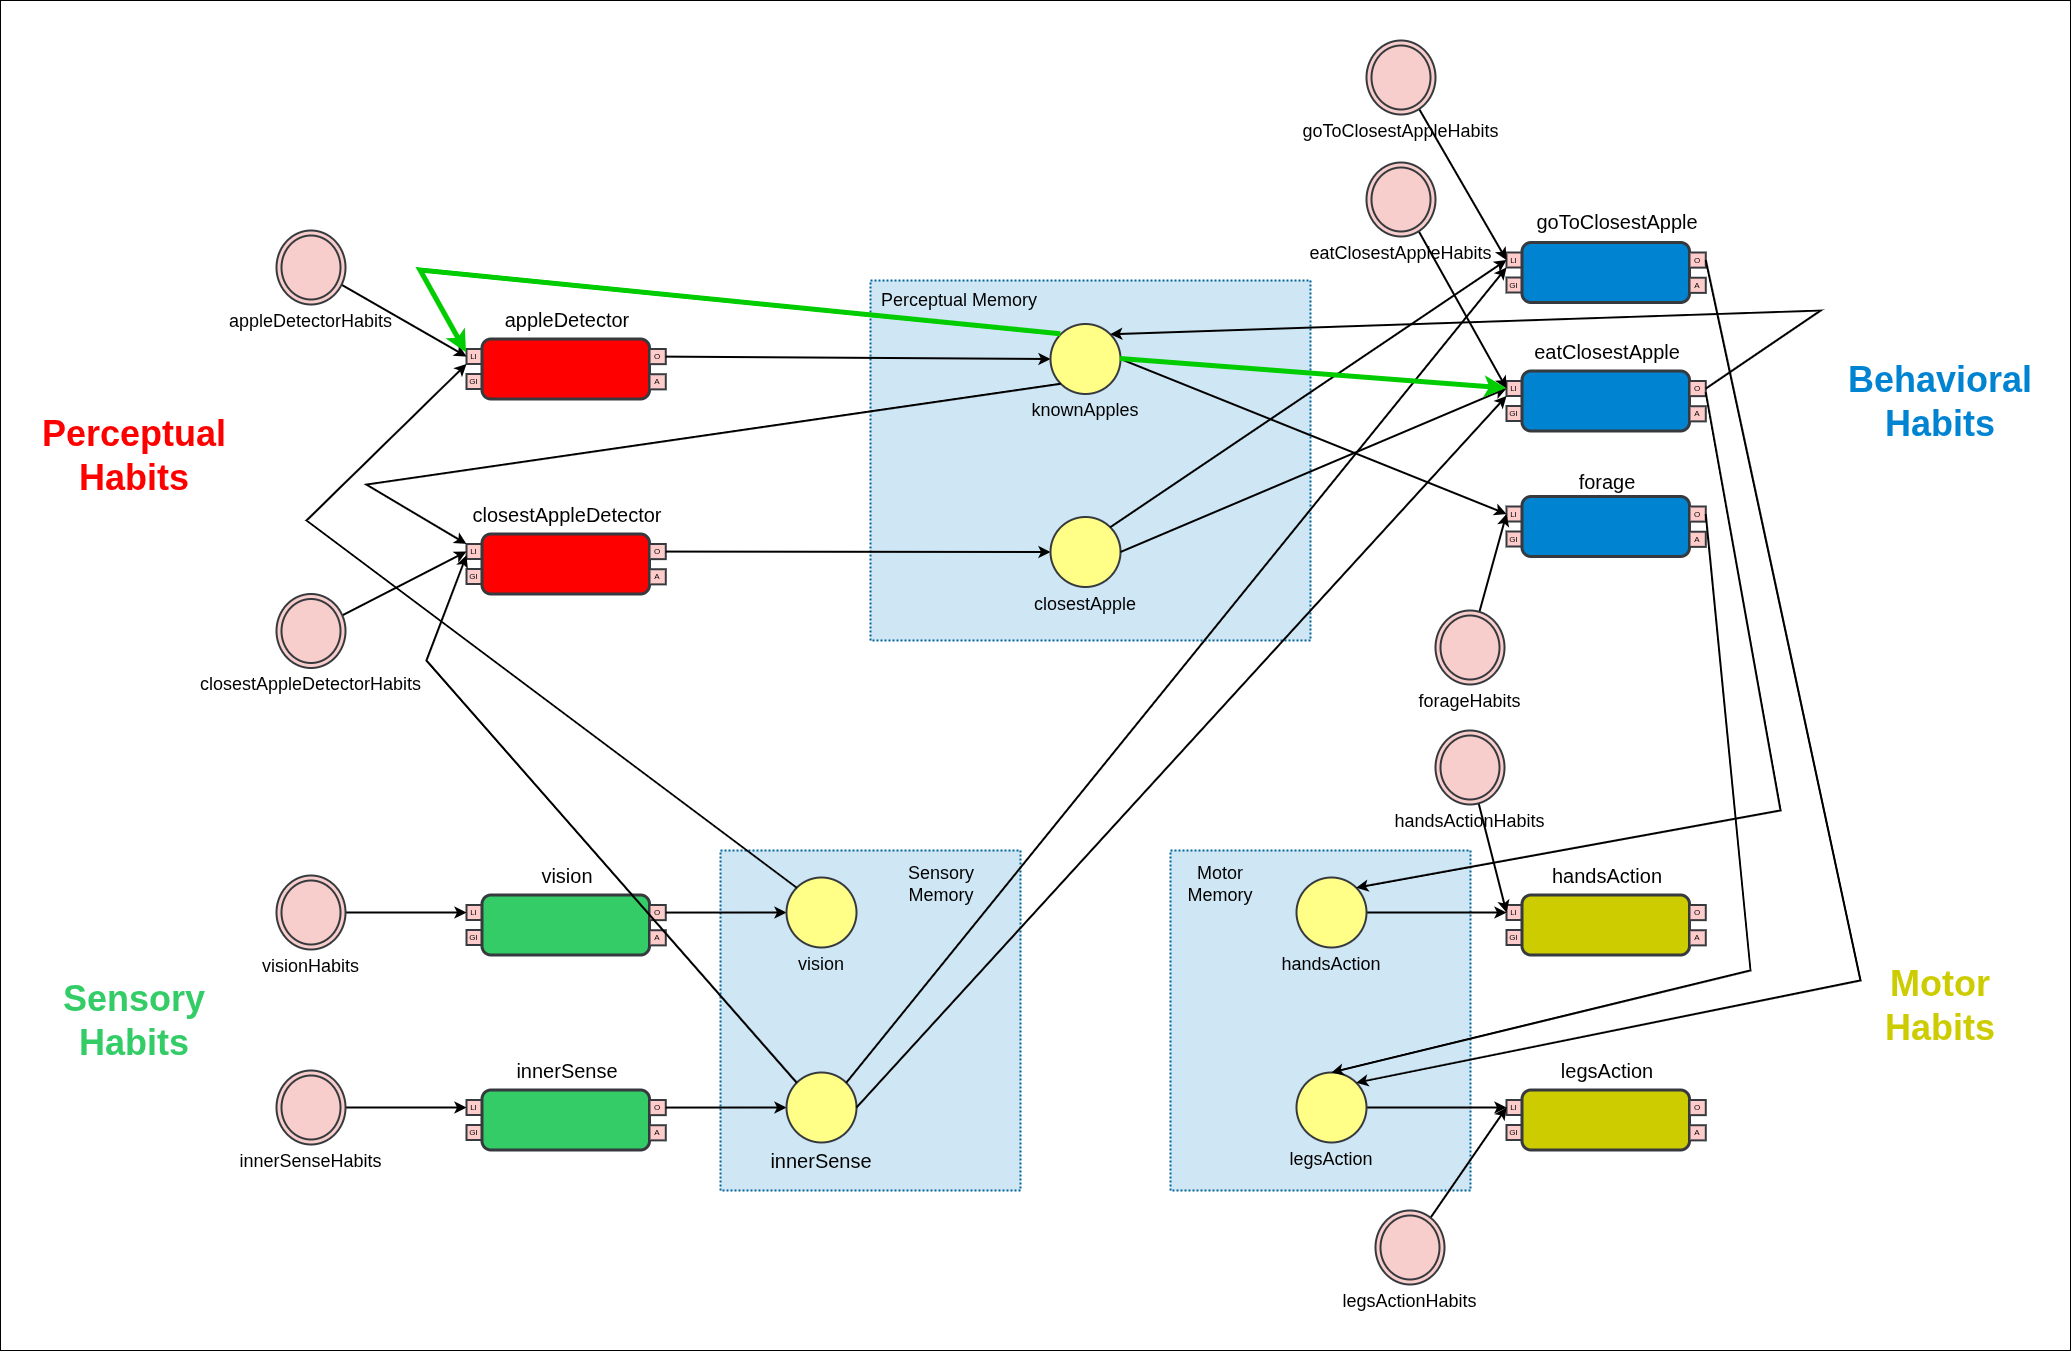
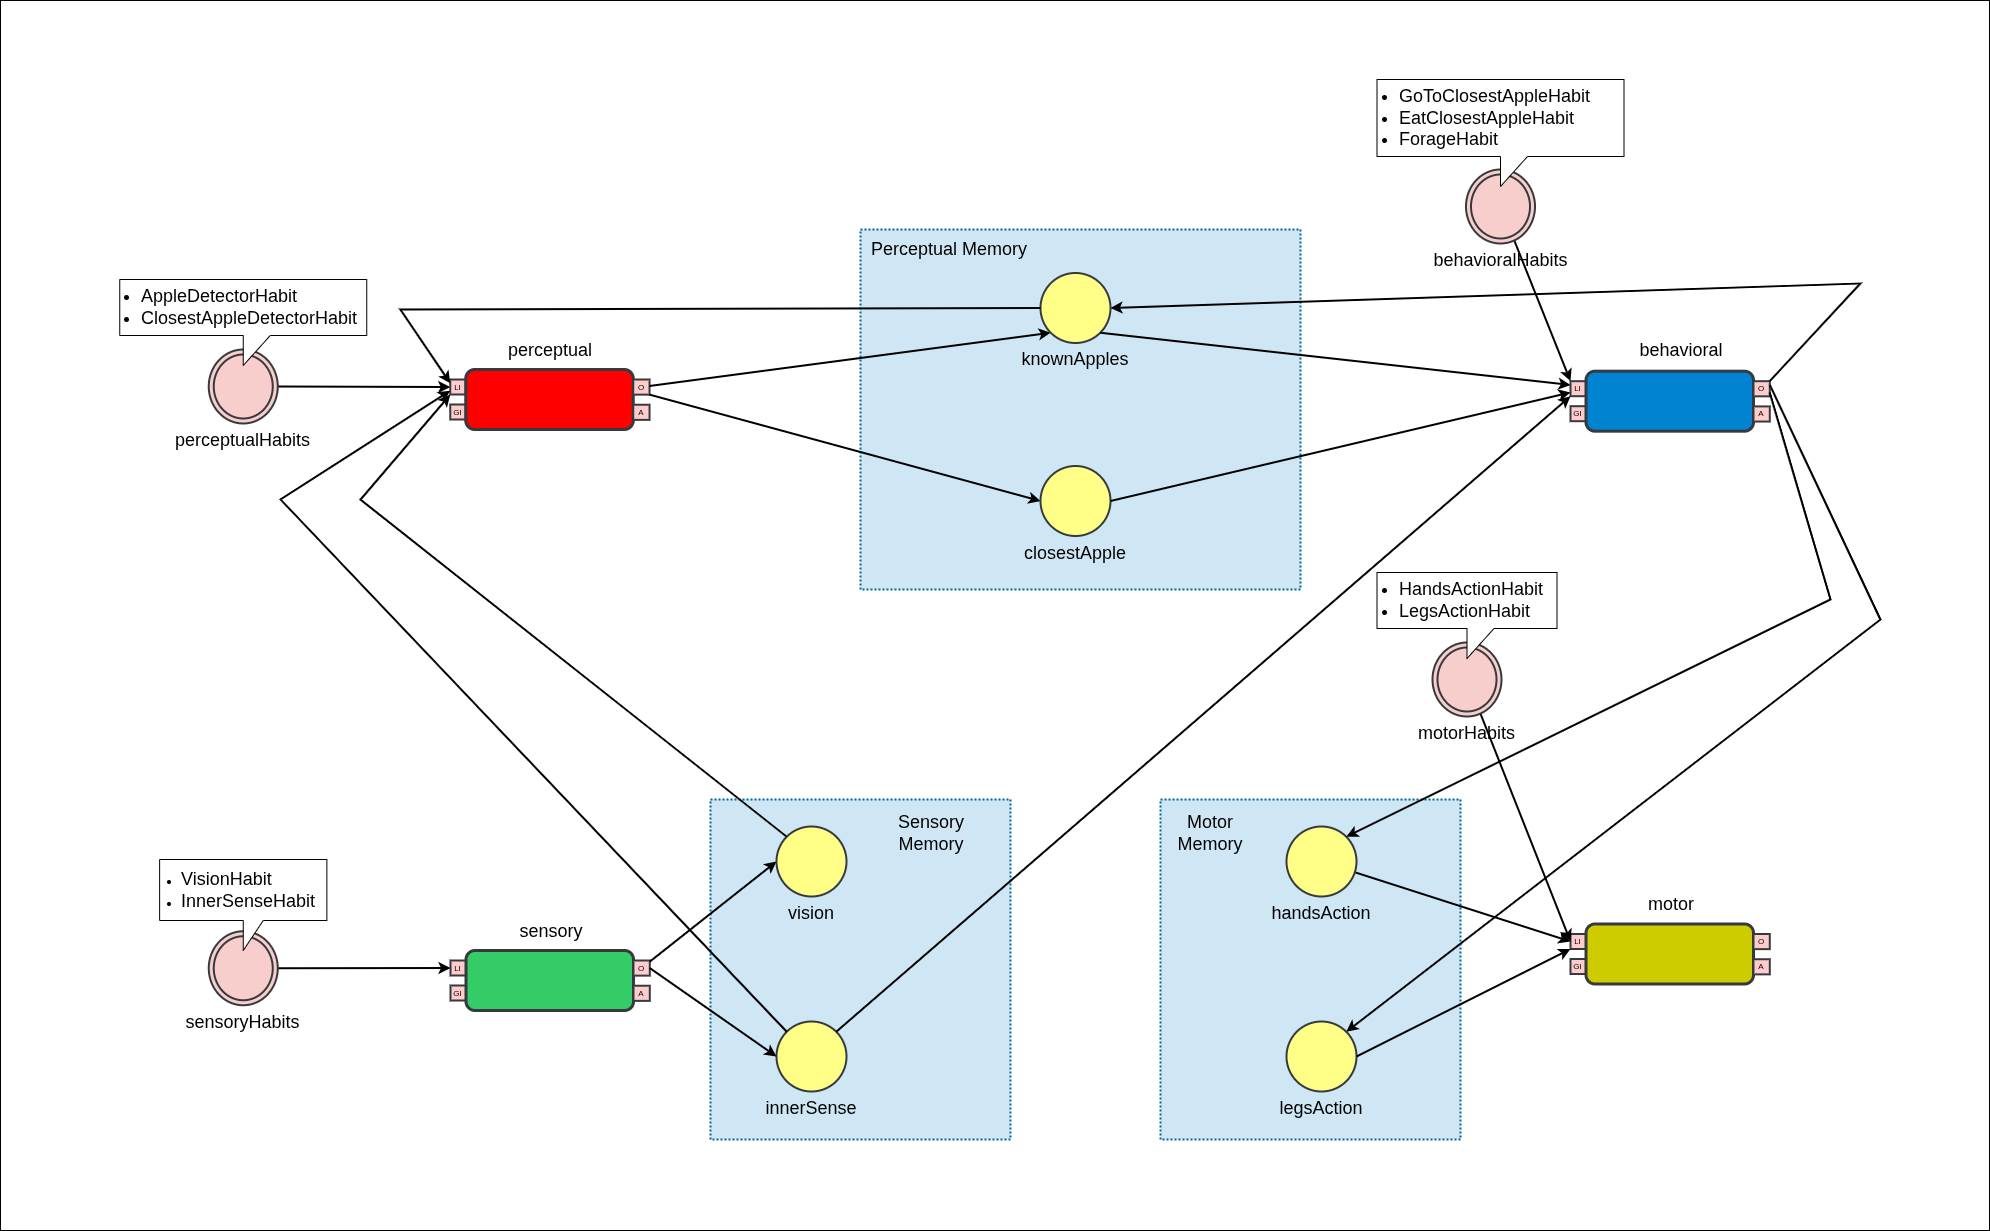
setup

diff --git a/src/main/java/habits/motor/LegsActionHabit.java b/src/main/java/habits/motor/LegsActionHabit.java
@@ -1,4 +1,4 @@
-package codelets.habits.motor;
+package habits.motor;
 
 import org.json.JSONException;
 import org.json.JSONObject;
@@ -10,8 +10,6 @@ import br.unicamp.cst.representation.idea.Idea;
 import ws3dproxy.model.Creature;
 
 public class LegsActionHabit implements Habit {
-    private double previousTargetx=0;
-	private double previousTargety=0;
 	private String previousLegsAction="";
     private Creature c;
     double old_angle = 0;
@@ -39,7 +37,7 @@ public class LegsActionHabit implements Habit {
                     String action=command.getString("ACTION");
                     if (action.equals("FORAGE")) {
                         if (!comm.equals(previousLegsAction)) { 
-                            log.info("Sending Forage command to agent");
+                            log.fine("Sending Forage command to agent");
                             try {  
                                 c.rotate(2);     
                             } catch (Exception e) {
@@ -53,19 +51,17 @@ public class LegsActionHabit implements Habit {
 					        double targetx=command.getDouble("X");
 					        double targety=command.getDouble("Y");
 					        if (!comm.equals(previousLegsAction)) {
-                                log.info("Sending move command to agent: ["+targetx+","+targety+"]");
+                                log.fine("Sending move command to agent: ["+targetx+","+targety+"]");
                                 try {
                                     c.moveto(speed, targetx, targety);
                                 } catch(Exception e) {
                                     e.printStackTrace();
                                 }
-					            previousTargetx=targetx;
-					            previousTargety=targety;
                             }
                         }
                                         
 				    } else {
-					    log.info("Sending stop command to agent");
+					    log.fine("Sending stop command to agent");
                         try {
                             c.moveto(0,0,0);
                         } catch(Exception e) {
@@ -79,7 +75,7 @@ public class LegsActionHabit implements Habit {
 		}
         else {
 			previousLegsAction = comm;
-            log.info("Sending stop command to agent"); 
+            log.fine("Sending stop command to agent"); 
         }
 
         return null;

diff --git a/src/main/java/habits/motor/HandsActionHabit.java b/src/main/java/habits/motor/HandsActionHabit.java
@@ -1,4 +1,4 @@
-package codelets.habits.motor;
+package habits.motor;
 
 import java.util.logging.Logger;
 
@@ -42,7 +42,7 @@ public class HandsActionHabit implements Habit {
                         } catch (Exception e) {
                             e.printStackTrace();                        
                         } 
-						log.info("Sending Put In Sack command to agent:****** "+objectName+"**********");
+						log.fine("Sending Put In Sack command to agent:****** "+objectName+"**********");
 					}
 					if (action.equals("EATIT")) {
                         try {
@@ -50,7 +50,7 @@ public class HandsActionHabit implements Habit {
                         } catch (Exception e) {
                             e.printStackTrace();                   
                         }
-						log.info("Sending Eat command to agent:****** "+objectName+"**********");							
+						log.fine("Sending Eat command to agent:****** "+objectName+"**********");							
 					}
 					if (action.equals("BURY")) {
                         try {
@@ -58,7 +58,7 @@ public class HandsActionHabit implements Habit {
                         } catch (Exception e) {
                             e.printStackTrace();                         
                         }
-						log.info("Sending Bury command to agent:****** "+objectName+"**********");							
+						log.fine("Sending Bury command to agent:****** "+objectName+"**********");							
 					}
                 }
 			} catch (JSONException e) {

diff --git a/src/main/java/AgentMind.java b/src/main/java/AgentMind.java
@@ -25,15 +25,15 @@ import br.unicamp.cst.core.entities.Mind;
 import br.unicamp.cst.representation.idea.HabitExecutionerCodelet;
 import br.unicamp.cst.representation.idea.Habit;
 import br.unicamp.cst.representation.idea.Idea;
-import codelets.habits.sensors.InnerSenseHabit;
-import codelets.habits.sensors.VisionHabit;
-import codelets.habits.perception.ClosestAppleDetectorHabit;
-import codelets.habits.perception.AppleDetectorHabit;
-import codelets.habits.behaviors.GoToClosestAppleHabit;
-import codelets.habits.behaviors.EatClosestAppleHabit;
-import codelets.habits.behaviors.ForageHabit;
-import codelets.habits.motor.LegsActionHabit;
-import codelets.habits.motor.HandsActionHabit;
+import habits.behaviors.EatClosestAppleHabit;
+import habits.behaviors.ForageHabit;
+import habits.behaviors.GoToClosestAppleHabit;
+import habits.motor.HandsActionHabit;
+import habits.motor.LegsActionHabit;
+import habits.perception.AppleDetectorHabit;
+import habits.perception.ClosestAppleDetectorHabit;
+import habits.sensors.InnerSenseHabit;
+import habits.sensors.VisionHabit;
 
 import java.util.ArrayList;
 import java.util.Collections;

diff --git a/src/main/java/habits/sensors/InnerSenseHabit.java b/src/main/java/habits/sensors/InnerSenseHabit.java
@@ -1,4 +1,4 @@
-package codelets.habits.sensors;
+package habits.sensors;
 
 import br.unicamp.cst.representation.idea.Habit;
 import br.unicamp.cst.representation.idea.Idea;

diff --git a/src/main/java/habits/perception/AppleDetectorHabit.java b/src/main/java/habits/perception/AppleDetectorHabit.java
@@ -1,4 +1,4 @@
-package codelets.habits.perception;
+package habits.perception;
 
 import java.util.ArrayList;
 import java.util.Collections;

diff --git a/src/main/java/habits/perception/ClosestAppleDetectorHabit.java b/src/main/java/habits/perception/ClosestAppleDetectorHabit.java
@@ -1,4 +1,4 @@
-package codelets.habits.perception;
+package habits.perception;
 
 import java.util.ArrayList;
 import java.util.Collections;

diff --git a/src/main/java/habits/behaviors/EatClosestAppleHabit.java b/src/main/java/habits/behaviors/EatClosestAppleHabit.java
@@ -1,4 +1,4 @@
-package codelets.habits.behaviors;
+package habits.behaviors;
 
 import java.util.ArrayList;
 import java.util.Collections;

diff --git a/src/main/java/habits/behaviors/ForageHabit.java b/src/main/java/habits/behaviors/ForageHabit.java
@@ -1,4 +1,4 @@
-package codelets.habits.behaviors;
+package habits.behaviors;
 
 import java.util.ArrayList;
 import java.util.Collections;

diff --git a/src/main/java/habits/behaviors/GoToClosestAppleHabit.java b/src/main/java/habits/behaviors/GoToClosestAppleHabit.java
@@ -1,4 +1,4 @@
-package codelets.habits.behaviors;
+package habits.behaviors;
 
 import java.awt.Point;
 import java.awt.geom.Point2D;

diff --git a/src/main/java/habits/sensors/VisionHabit.java b/src/main/java/habits/sensors/VisionHabit.java
@@ -1,4 +1,4 @@
-package codelets.habits.sensors;
+package habits.sensors;
 
 import java.util.List;
 
